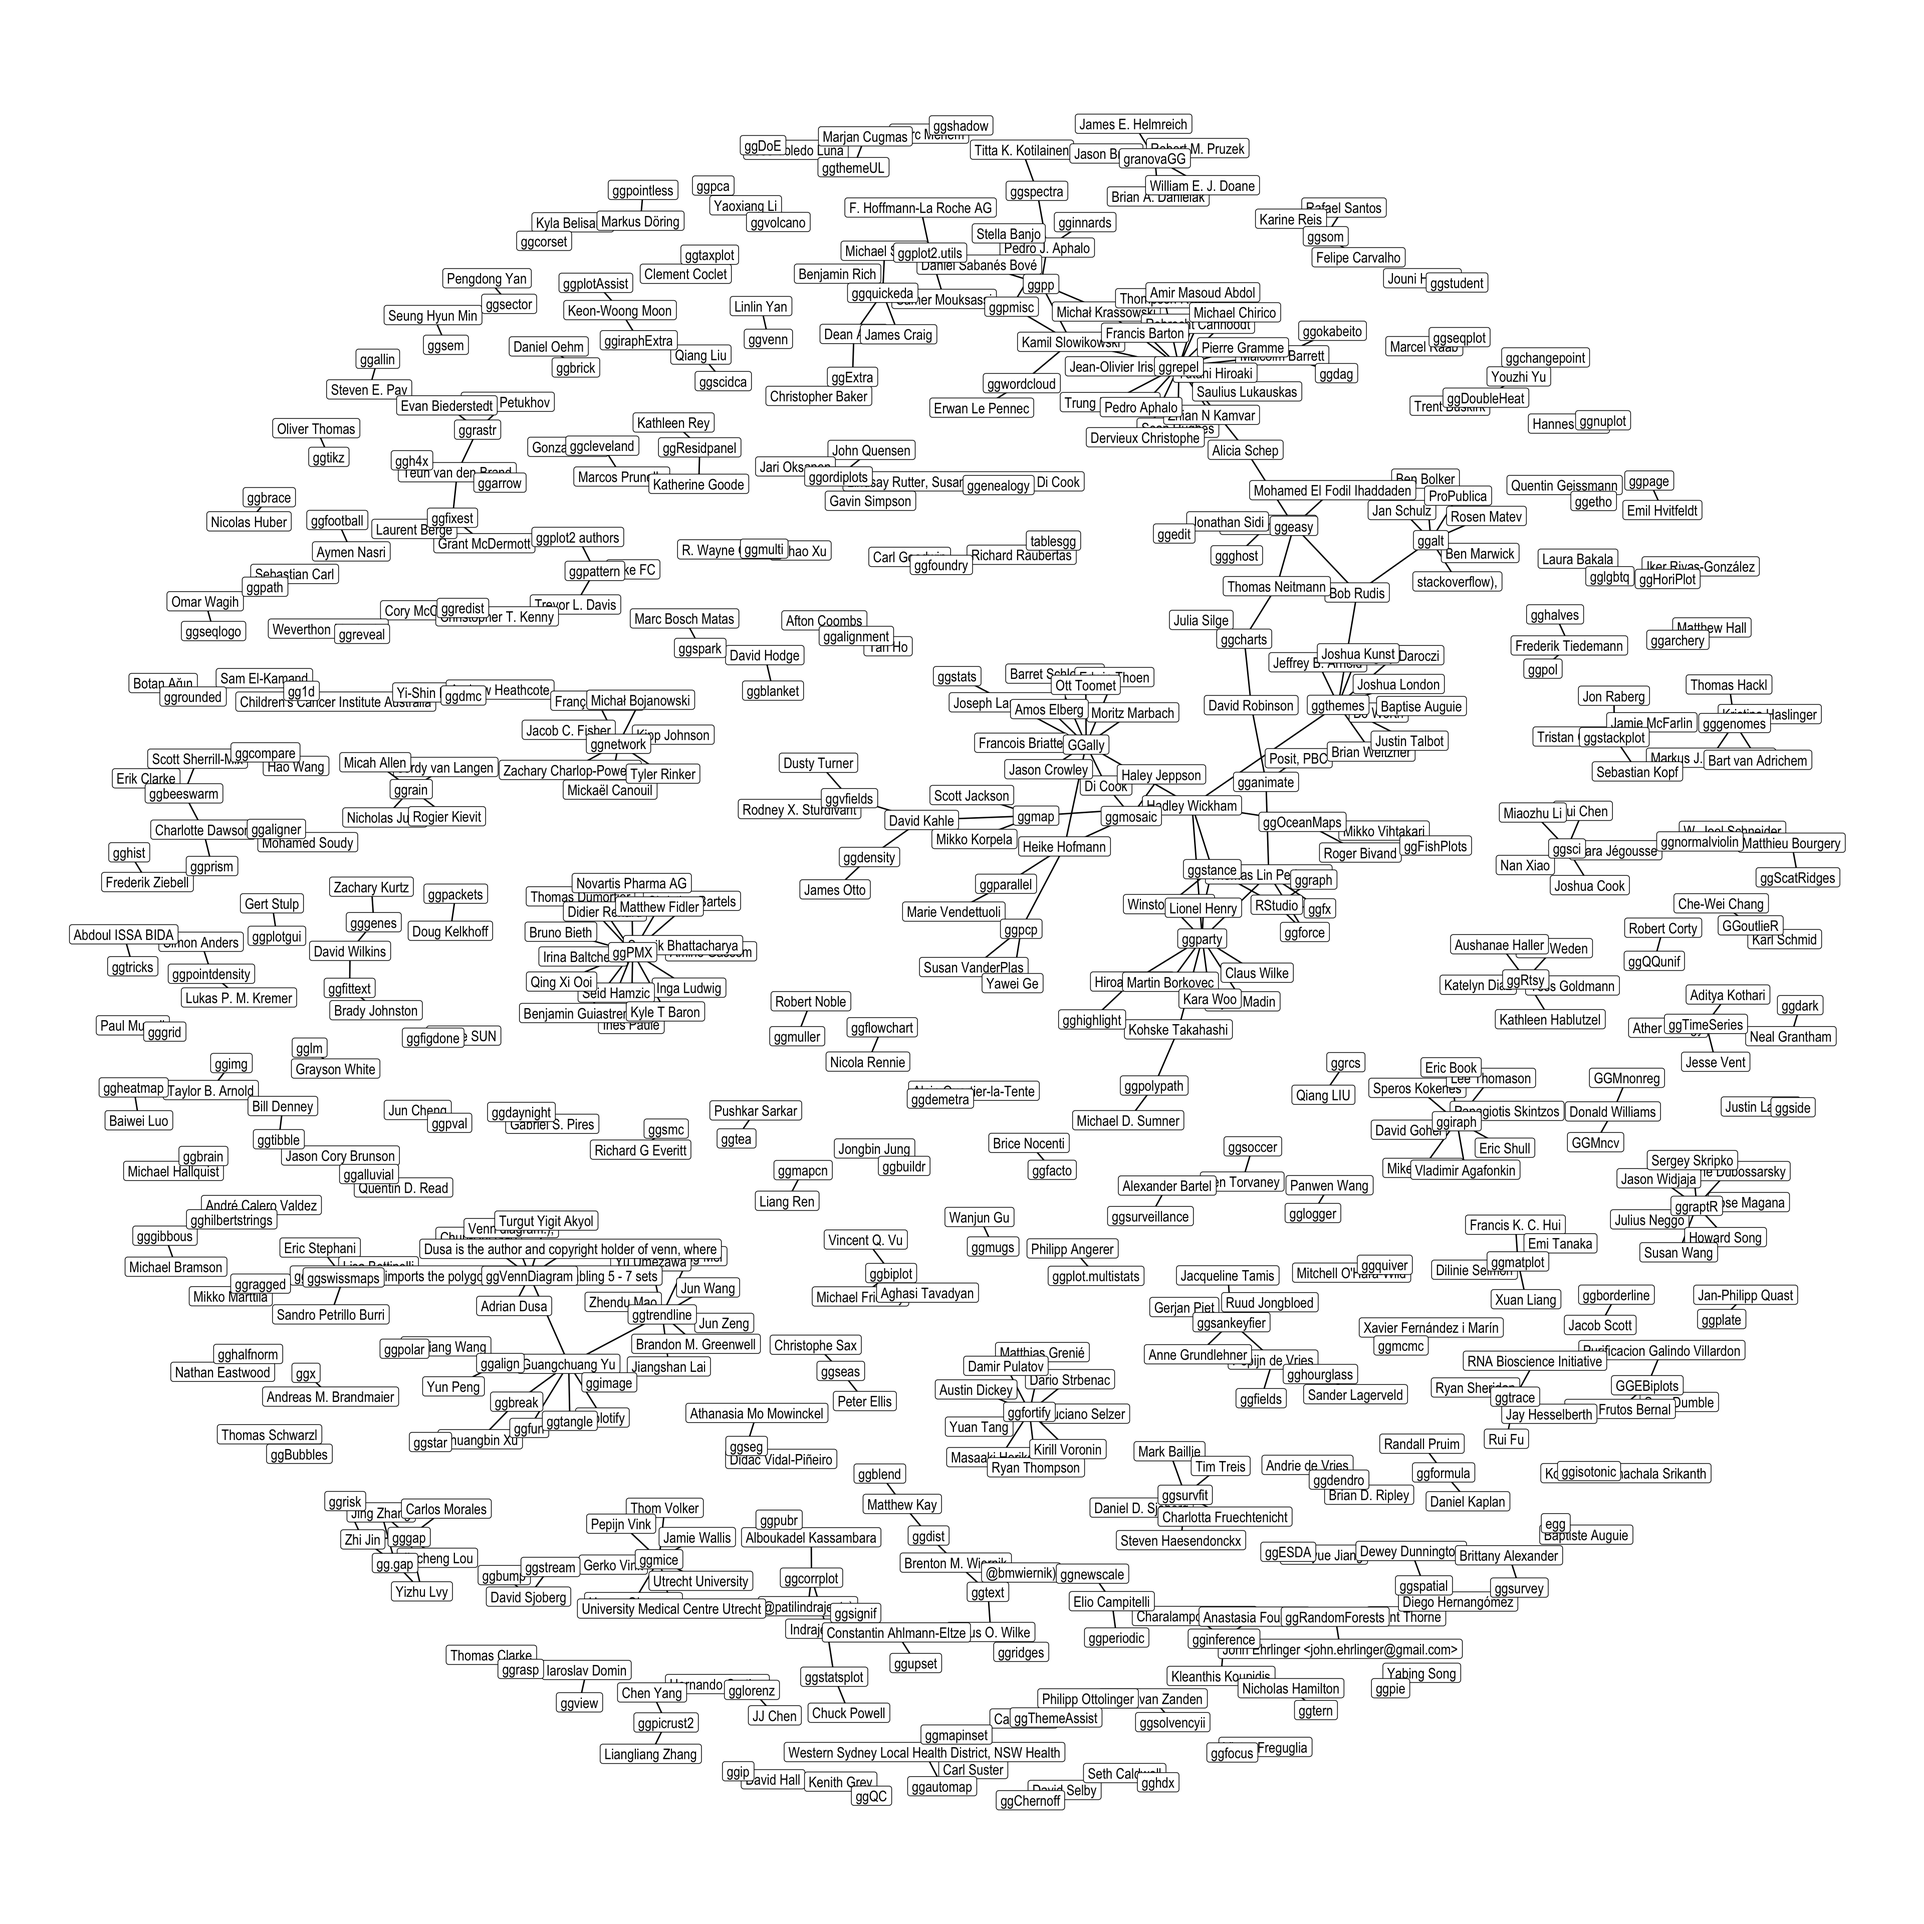
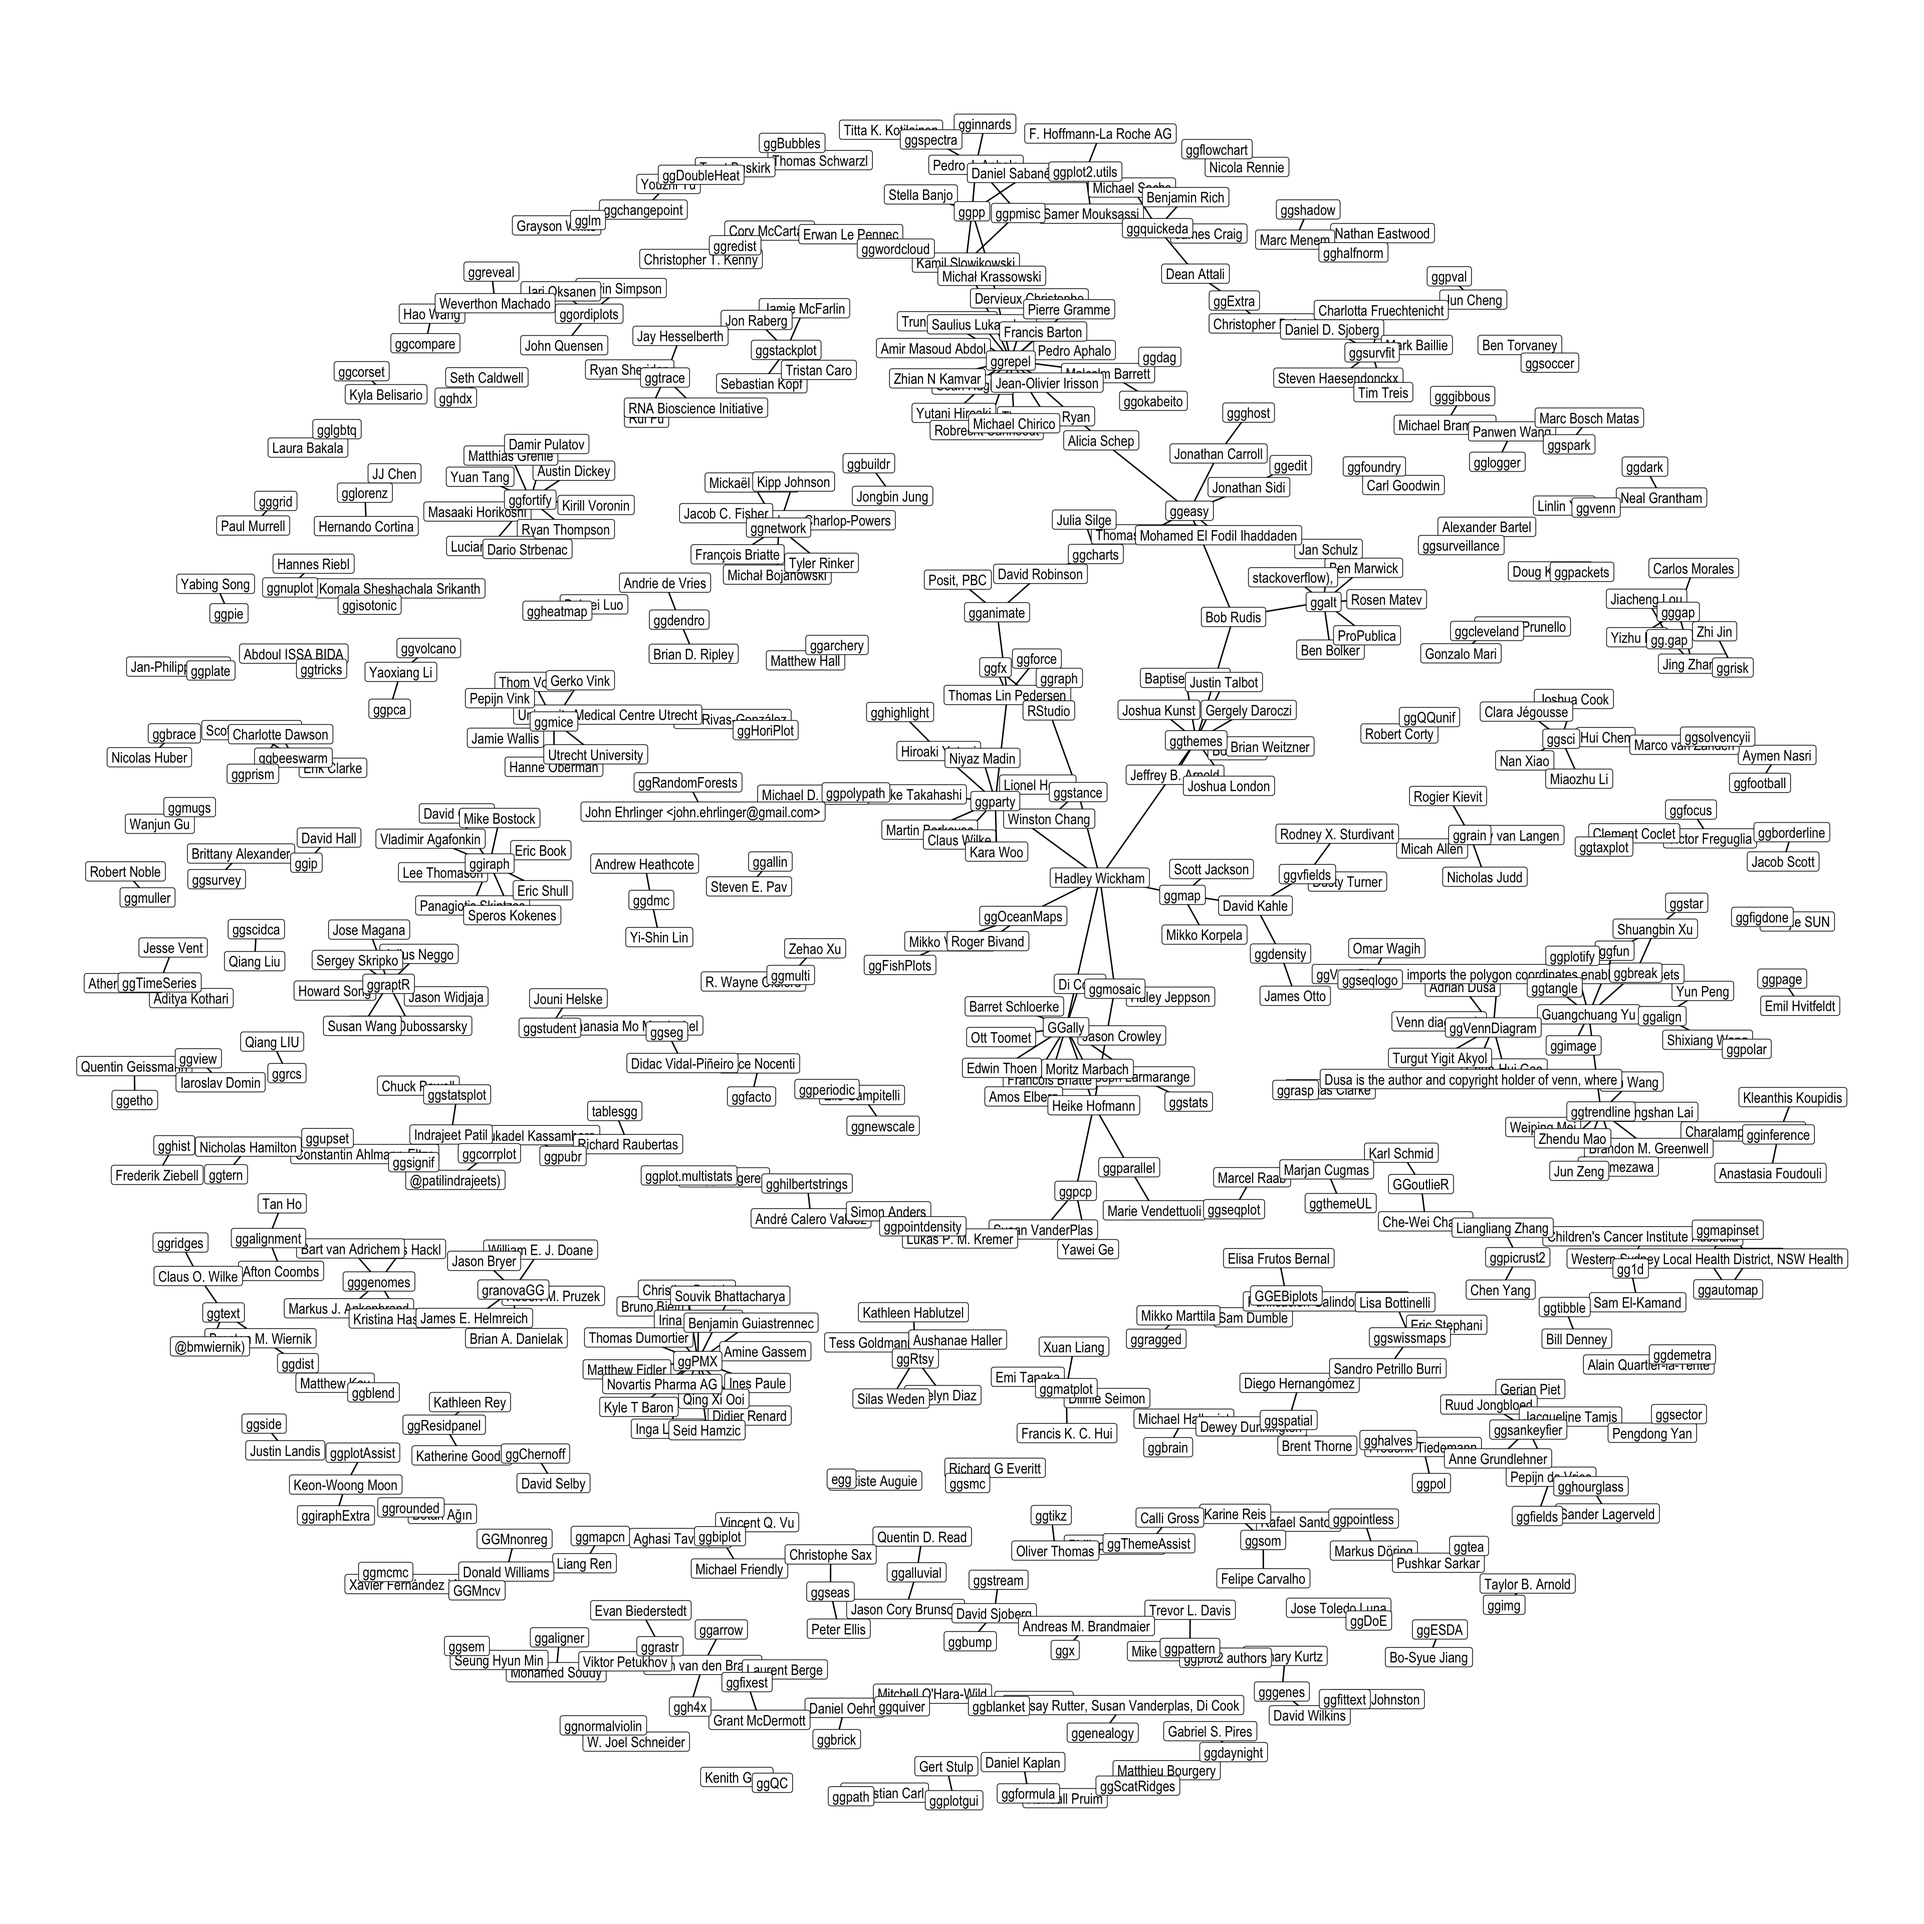
no network for now discussions

Changed region(s): [[0.0312, 0.0625, 0.9688, 0.9375]]

diff --git a/docs/discussion.html b/docs/discussion.html
@@ -147,15 +147,6 @@ ul.task-list li input[type="checkbox"] {
 </div>
 </div>
 </div>
-<div class="cell">
-<div class="cell-output-display">
-<div>
-<figure class="figure">
-<p><img src="discussion_files/figure-html/unnamed-chunk-3-1.png" class="img-fluid figure-img" width="672"></p>
-</figure>
-</div>
-</div>
-</div>
 
 
 
